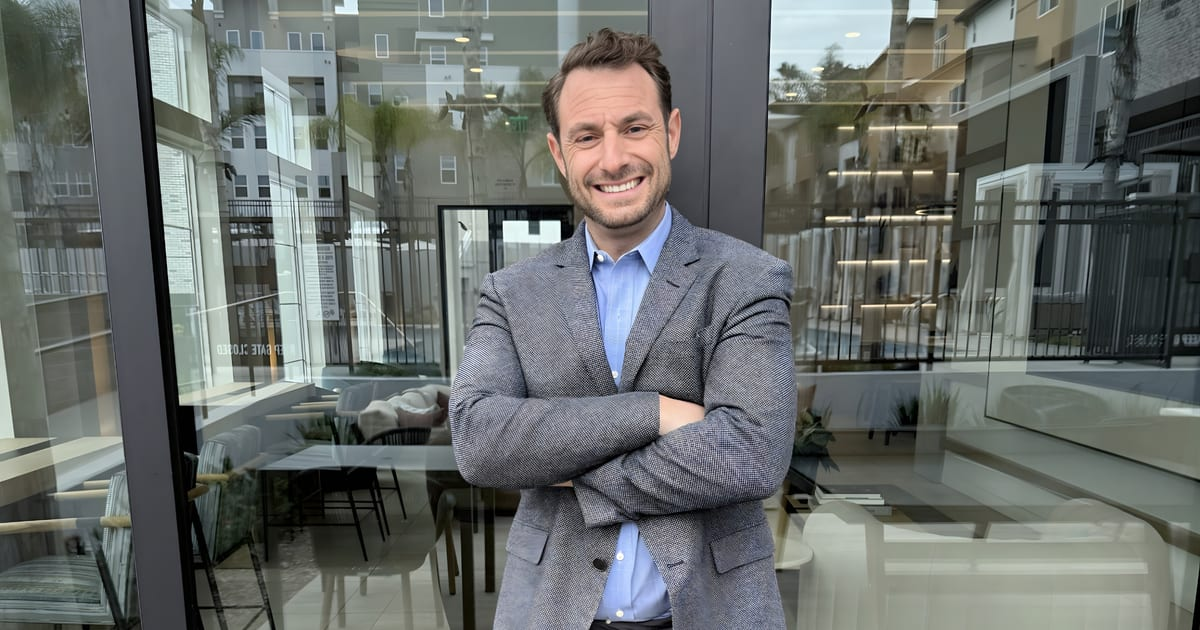
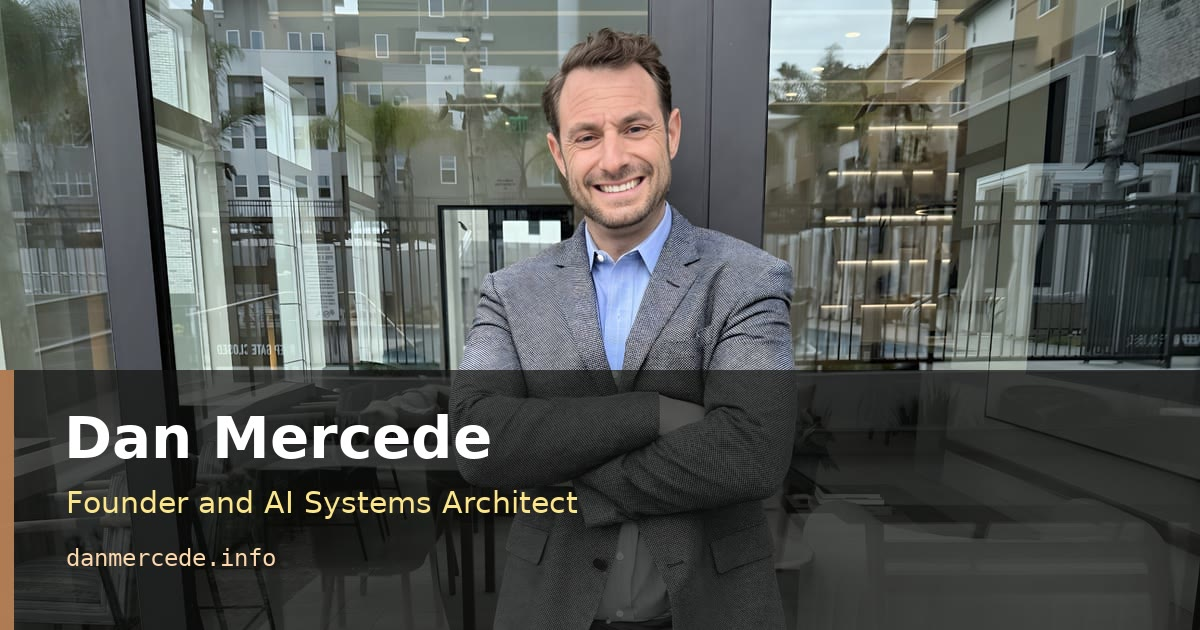
fix: distinguish dan info og card (#12)

diff --git a/tests/imageBudget.test.ts b/tests/imageBudget.test.ts
@@ -5,7 +5,7 @@
 // Run via `npm test` (tsx --test).
 import { test } from 'node:test';
 import assert from 'node:assert/strict';
-import { readdirSync, statSync } from 'node:fs';
+import { readFileSync, readdirSync, statSync } from 'node:fs';
 import path from 'node:path';
 import { fileURLToPath } from 'node:url';
 
@@ -44,4 +44,17 @@ test('every public/ image is within its per-type byte budget', () => {
     }
   }
   assert.equal(offenders.length, 0, `image budget exceeded:\n  ${offenders.join('\n  ')}`);
+});
+
+test('Open Graph card references the committed local JPEG asset', () => {
+  const html = readFileSync(path.resolve(PUBLIC_DIR, '..', 'index.html'), 'utf8');
+  const image = html.match(/<meta property="og:image" content="https:\/\/www\.danmercede\.info\/([^"]+)" \/>/);
+  assert.ok(image, 'og:image must reference the danmercede.info host');
+  assert.equal(image[1], 'dan-mercede-og-card.jpg');
+
+  const size = statSync(path.join(PUBLIC_DIR, image[1])).size;
+  assert.ok(size > 0, 'OG card must be non-empty');
+  assert.ok(size <= BUDGETS['.jpg'], `OG card must stay <= 250KB (got ${(size / 1024).toFixed(0)}KB)`);
+  assert.match(html, /<meta property="og:image:width" content="1200" \/>/);
+  assert.match(html, /<meta property="og:image:height" content="630" \/>/);
 });

diff --git a/index.html b/index.html
@@ -18,9 +18,7 @@
   <meta property="og:description"
     content="Identity verification and structured data for Dan Mercede. Founder &amp; AI Systems Architect, Technology Executive." />
   <meta property="og:url" content="https://www.danmercede.info/" />
-  <!-- Shares the canonical "Dan Mercede" OG card with danielmercede.info by design
-       (both are .info identity spokes for the same person); a distinct per-spoke
-       card is deferred pending a new asset. -->
+  <!-- Domain-specific OG card for this .info identity spoke. -->
   <meta property="og:image" content="https://www.danmercede.info/dan-mercede-og-card.jpg" />
   <meta property="og:image:type" content="image/jpeg" />
   <meta property="og:image:width" content="1200" />
